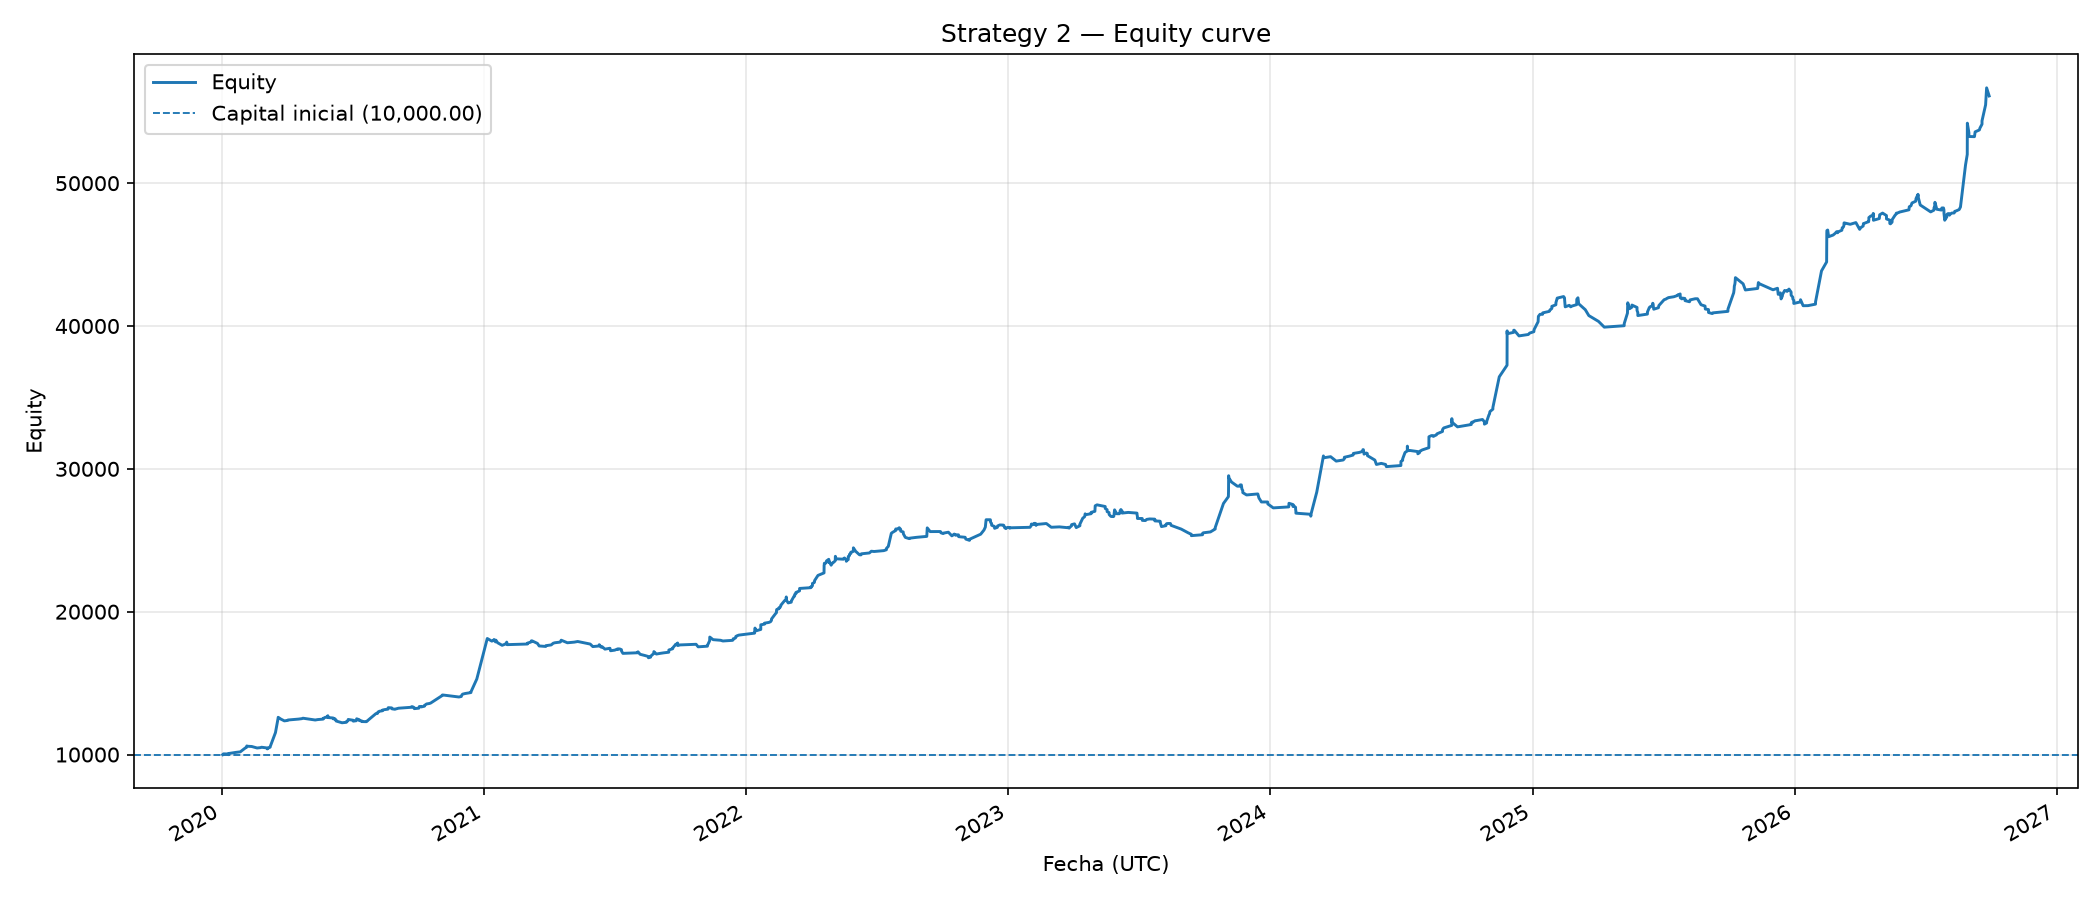
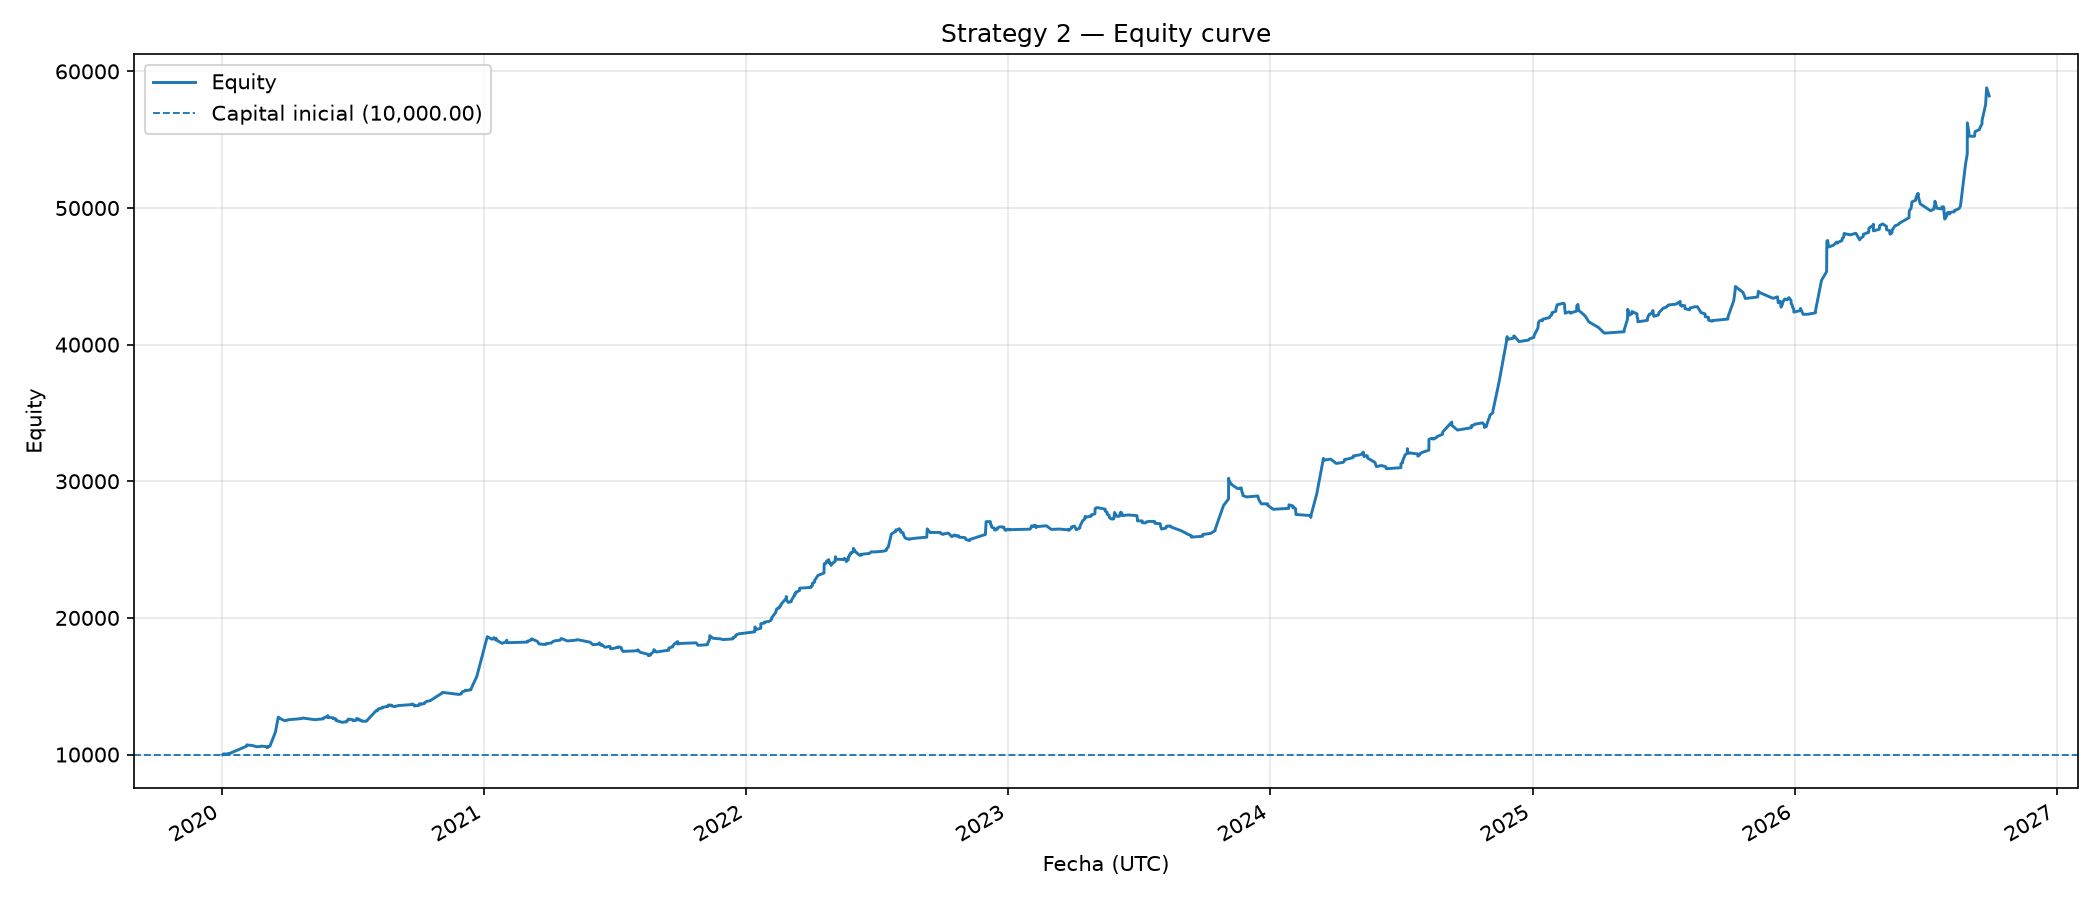
update

diff --git a/backend/services/backtest/bin/legacy/strategy/config.py b/backend/services/backtest/bin/legacy/strategy/config.py
@@ -53,7 +53,7 @@ class Config:
     # ["1D", "30min"]; la salida weakening se dispara si hay debilitamiento en
     # cualquiera de ellos.
     ema_weakening_timeframe: str | list[str] | tuple[str, ...] = "30min"
-    ema_weakening_gap_pct: float = 0.0005
+    ema_weakening_gap_pct: float = 0.0001
     ema_weakening_exit_pct: float = 25.0
 
     # Gestión de salida orientada a reducir la racha de pérdidas en whipsaw:
